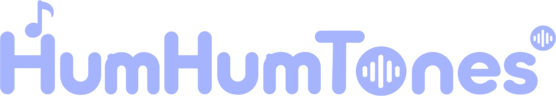
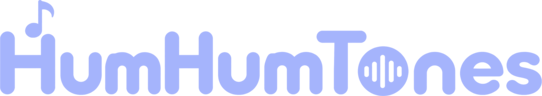
Simplify the UI and use the new wordmark
Drop the mascot from the trainer and the icon from the stats page, show
only the first MIDI port name, and switch the header to the cleaner
wordmark without the badge.

Changed region(s): [[0.0295, 0.25, 1.0, 1.0], [0.059, 0.0, 0.1181, 0.25], [0.0295, 0.25, 0.059, 0.2812]]

diff --git a/src/components/Trainer.tsx b/src/components/Trainer.tsx
@@ -1,8 +1,6 @@
 "use client";
 
-import Image from "next/image";
 import { useEffect, useEffectEvent } from "react";
-import mascot from "@/assets/mascot.png";
 import { useMidiInput } from "@/hooks/useMidiInput";
 import { useQuiz } from "@/hooks/useQuiz";
 import { usePersistentStore } from "@/hooks/usePersistentStore";
@@ -82,7 +80,6 @@ export function Trainer({ settings }: { settings: Settings }) {
       <ScoreBoard session={session} bestStreak={stats.bestStreak} />
 
       <div className="flex flex-col items-center gap-4 py-2">
-        {phase === "idle" && <Image src={mascot} alt="" priority className="h-28 w-auto" />}
         <p className="min-h-7 text-center text-lg" aria-live="polite">
           {prompt}
         </p>

diff --git a/src/app/stats/page.tsx b/src/app/stats/page.tsx
@@ -1,8 +1,6 @@
 "use client";
 
-import Image from "next/image";
 import { useState } from "react";
-import icon from "@/assets/icon.png";
 import { usePersistentStore } from "@/hooks/usePersistentStore";
 import { ALL_PITCH_CLASSES, noteLabel } from "@/lib/notes";
 import { resetStats, statsStore } from "@/lib/stats";
@@ -53,8 +51,6 @@ export default function StatsPage() {
           </button>
         )}
       </div>
-
-      {totals.attempts === 0 && <Image src={icon} alt="" className="mx-auto h-24 w-auto opacity-90" />}
 
       <section className="space-y-2">
         <h2 className="font-semibold">Accuracy by note</h2>

diff --git a/src/components/MidiStatus.tsx b/src/components/MidiStatus.tsx
@@ -36,9 +36,10 @@ export function MidiStatus({ state }: { state: MidiState }) {
       break;
     case "ready":
       content = state.devices.length ? (
-        <span className="flex items-center gap-2">
+        // Controllers often expose several ports (MiniLab 3 has four); name only the first.
+        <span className="flex items-center gap-2" title={state.devices.join(", ")}>
           <span className="size-2 rounded-full bg-emerald-500" aria-hidden />
-          {state.devices.join(", ")}
+          {state.devices[0]} connected
         </span>
       ) : (
         "MIDI enabled. Plug in a keyboard."
